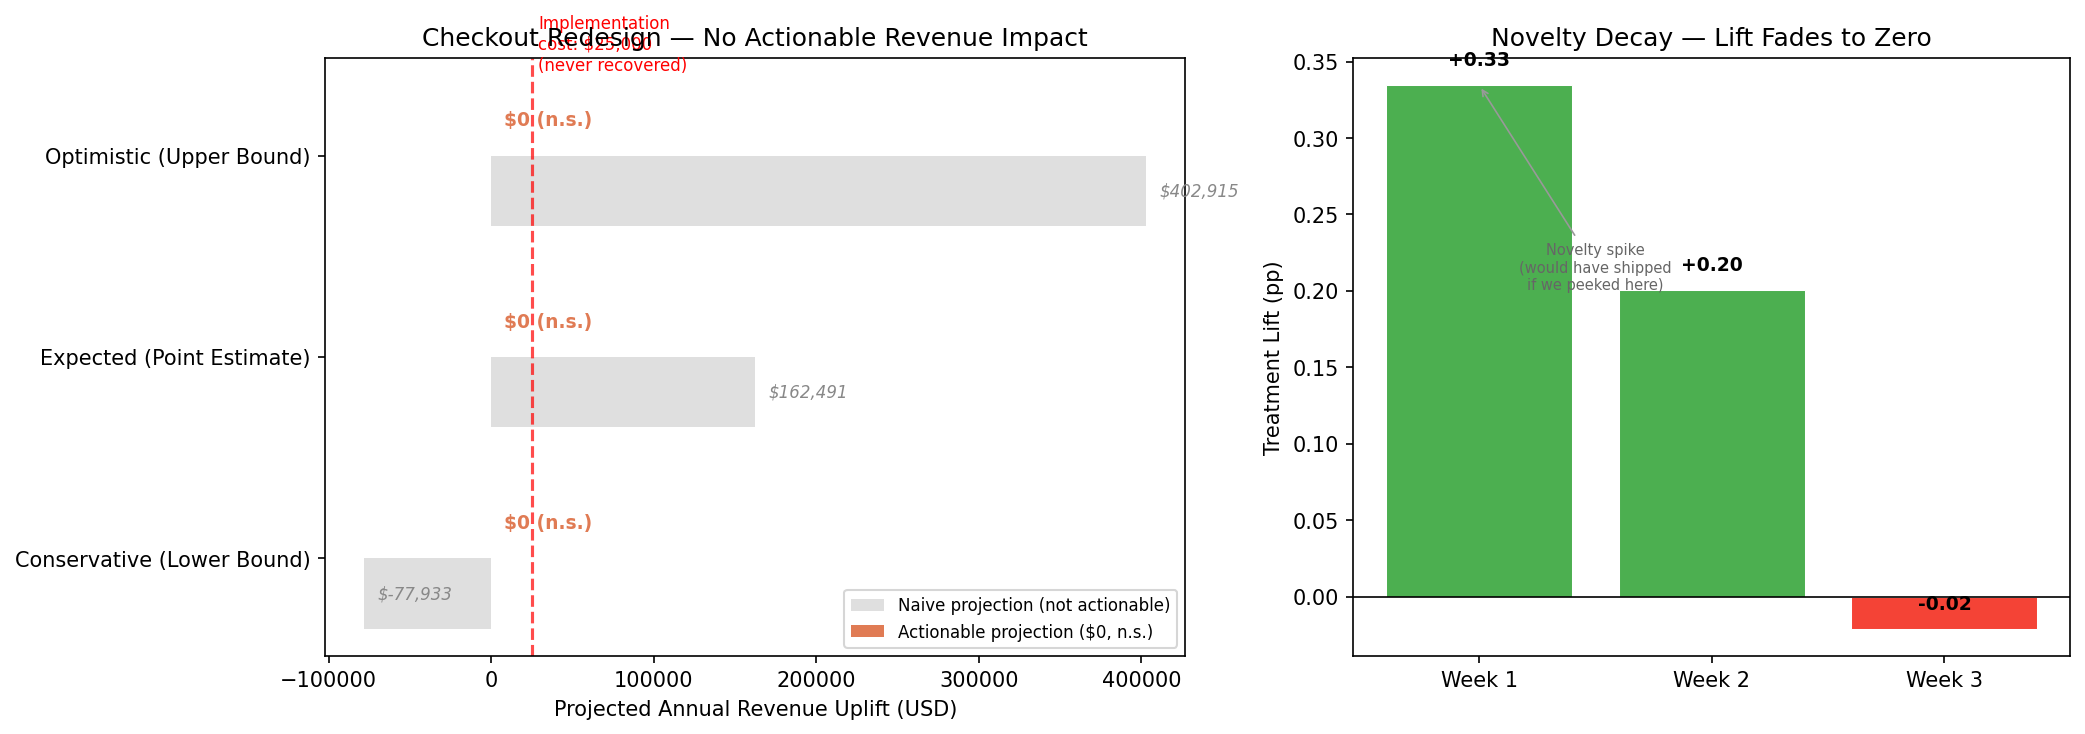
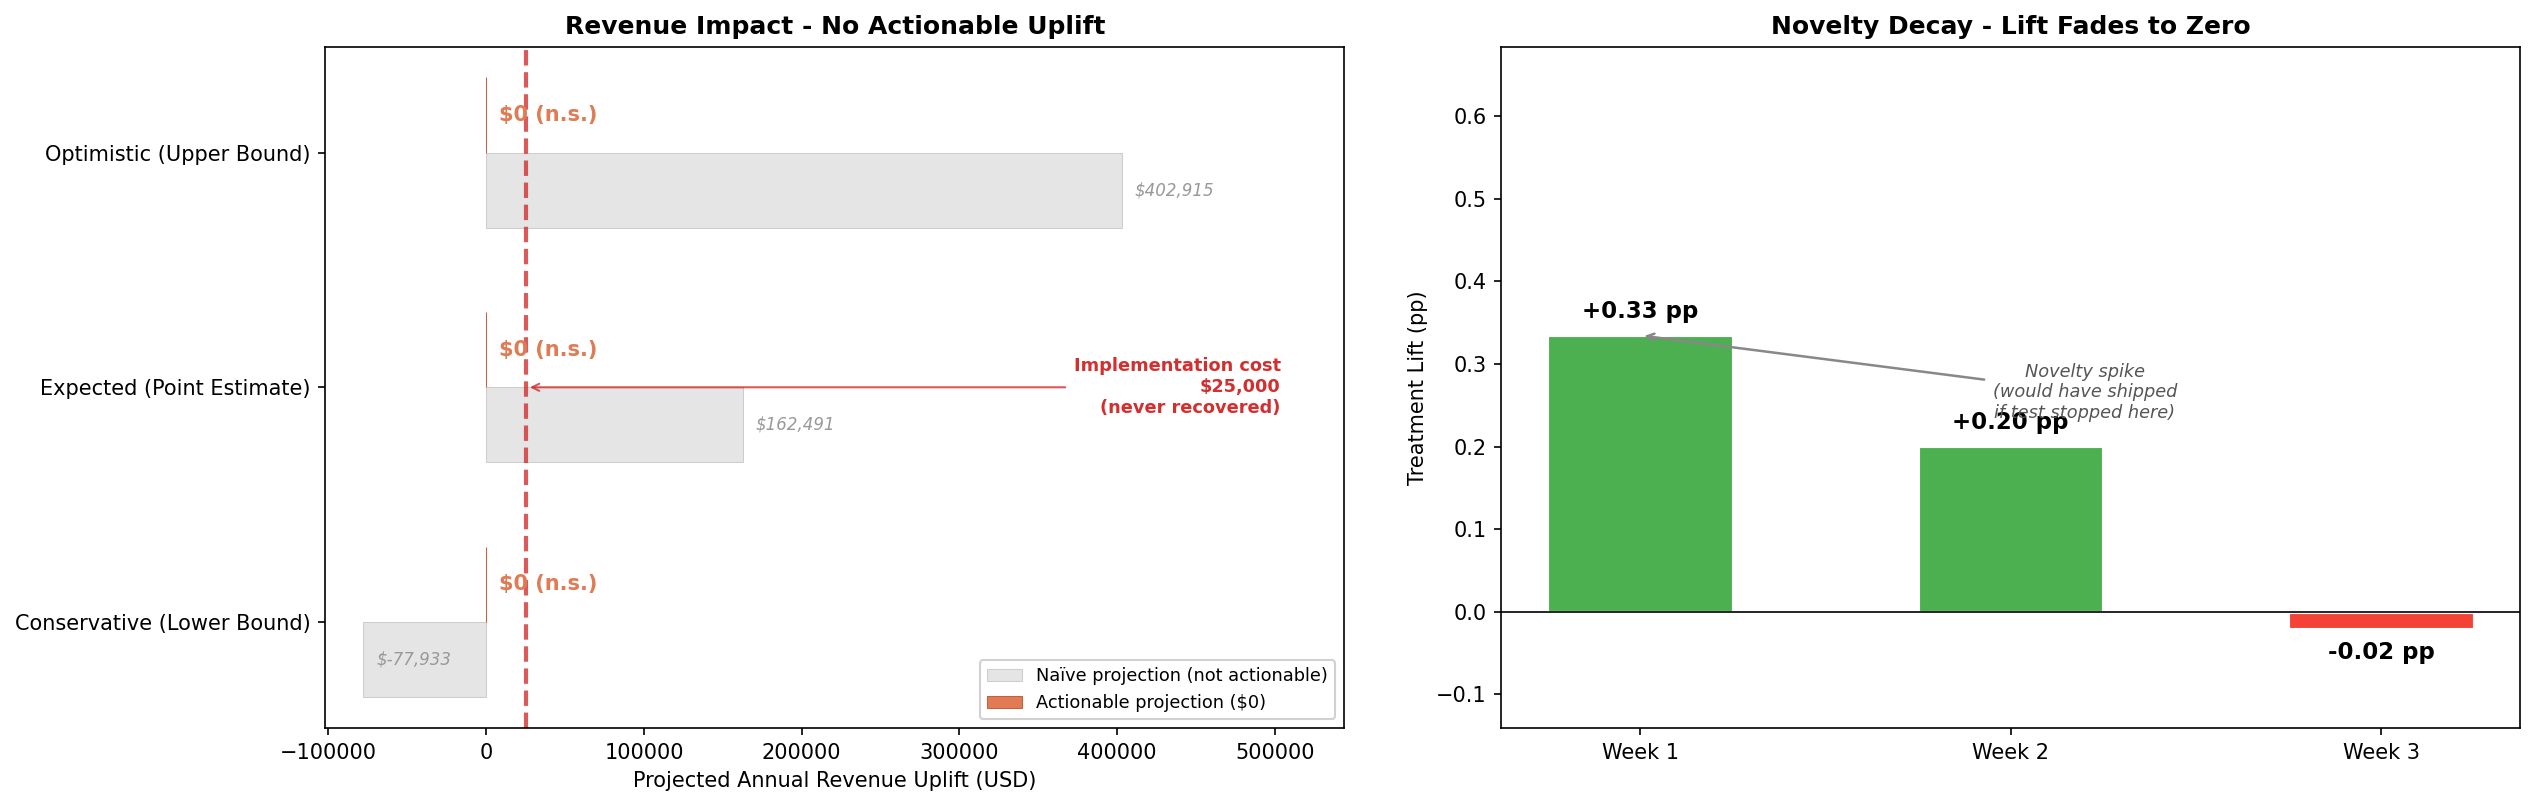
Fix graph borders, padding, and add text bounding boxes

diff --git a/scripts/04_business_recommendations.py b/scripts/04_business_recommendations.py
@@ -355,7 +355,7 @@ print("\n" + "═" * 65)
 print(" Generating charts...")
 
 # Final Visualization
-plt.figure(figsize=(15, 5.5))
+plt.figure(figsize=(17, 5.5))
 
 # Left
 plt.subplot(1, 2, 1)
@@ -387,12 +387,13 @@ mid_y = len(scenario_labels) / 2 - 0.5
 plt.annotate(
     f"Implementation cost\n${implementation_cost:,}\n(never recovered)",
     xy=(implementation_cost, mid_y),
-    xytext=(max_rev * 0.95, mid_y),
+    xytext=(max_rev * 1.25, mid_y),
     fontsize=8.5, color="#D32F2F", 
     va="center", ha="right", fontweight="bold",
     arrowprops=dict(arrowstyle="->", color="#D32F2F", lw=1, alpha=0.8)
 )
 
+plt.xlim(None, max_rev * 1.35)
 plt.yticks(list(y_pos), scenario_labels, fontsize=10)
 plt.xlabel("Projected Annual Revenue Uplift (USD)", fontsize=10)
 plt.title("Revenue Impact - No Actionable Uplift", fontsize=12, fontweight="bold")
@@ -420,11 +421,11 @@ for bar, val in zip(bars, lifts_by_week):
 
 plt.ylabel("Treatment Lift (pp)", fontsize=10)
 plt.title("Novelty Decay - Lift Fades to Zero", fontsize=12, fontweight="bold")
-plt.ylim(min(lifts_by_week) - 0.12, max(lifts_by_week) + 0.18)
+plt.ylim(min(lifts_by_week) - 0.12, max(lifts_by_week) + 0.35)
 
 plt.annotate("Novelty spike\n(would have shipped\nif test stopped here)",
              xy=(0, lifts_by_week[0]),
-             xytext=(0.85, lifts_by_week[0] * 1),
+             xytext=(1.2, lifts_by_week[0] * 0.7),
              fontsize=8.5, ha="center", color="#555", style="italic",
              arrowprops=dict(arrowstyle="->", color="#888", lw=1.2))
 
@@ -433,5 +434,5 @@ plt.savefig(os.path.join(ASSETS_DIR, 'revenue_impact.png'), dpi=150, bbox_inches
 plt.close()
 
 print(" Saved chart to assets/revenue_impact.png")
-print("\n" + "═" * 65)
+print("\n" + "=" * 65)
 print(" Analysis complete. Recommendation: Do not ship.")
